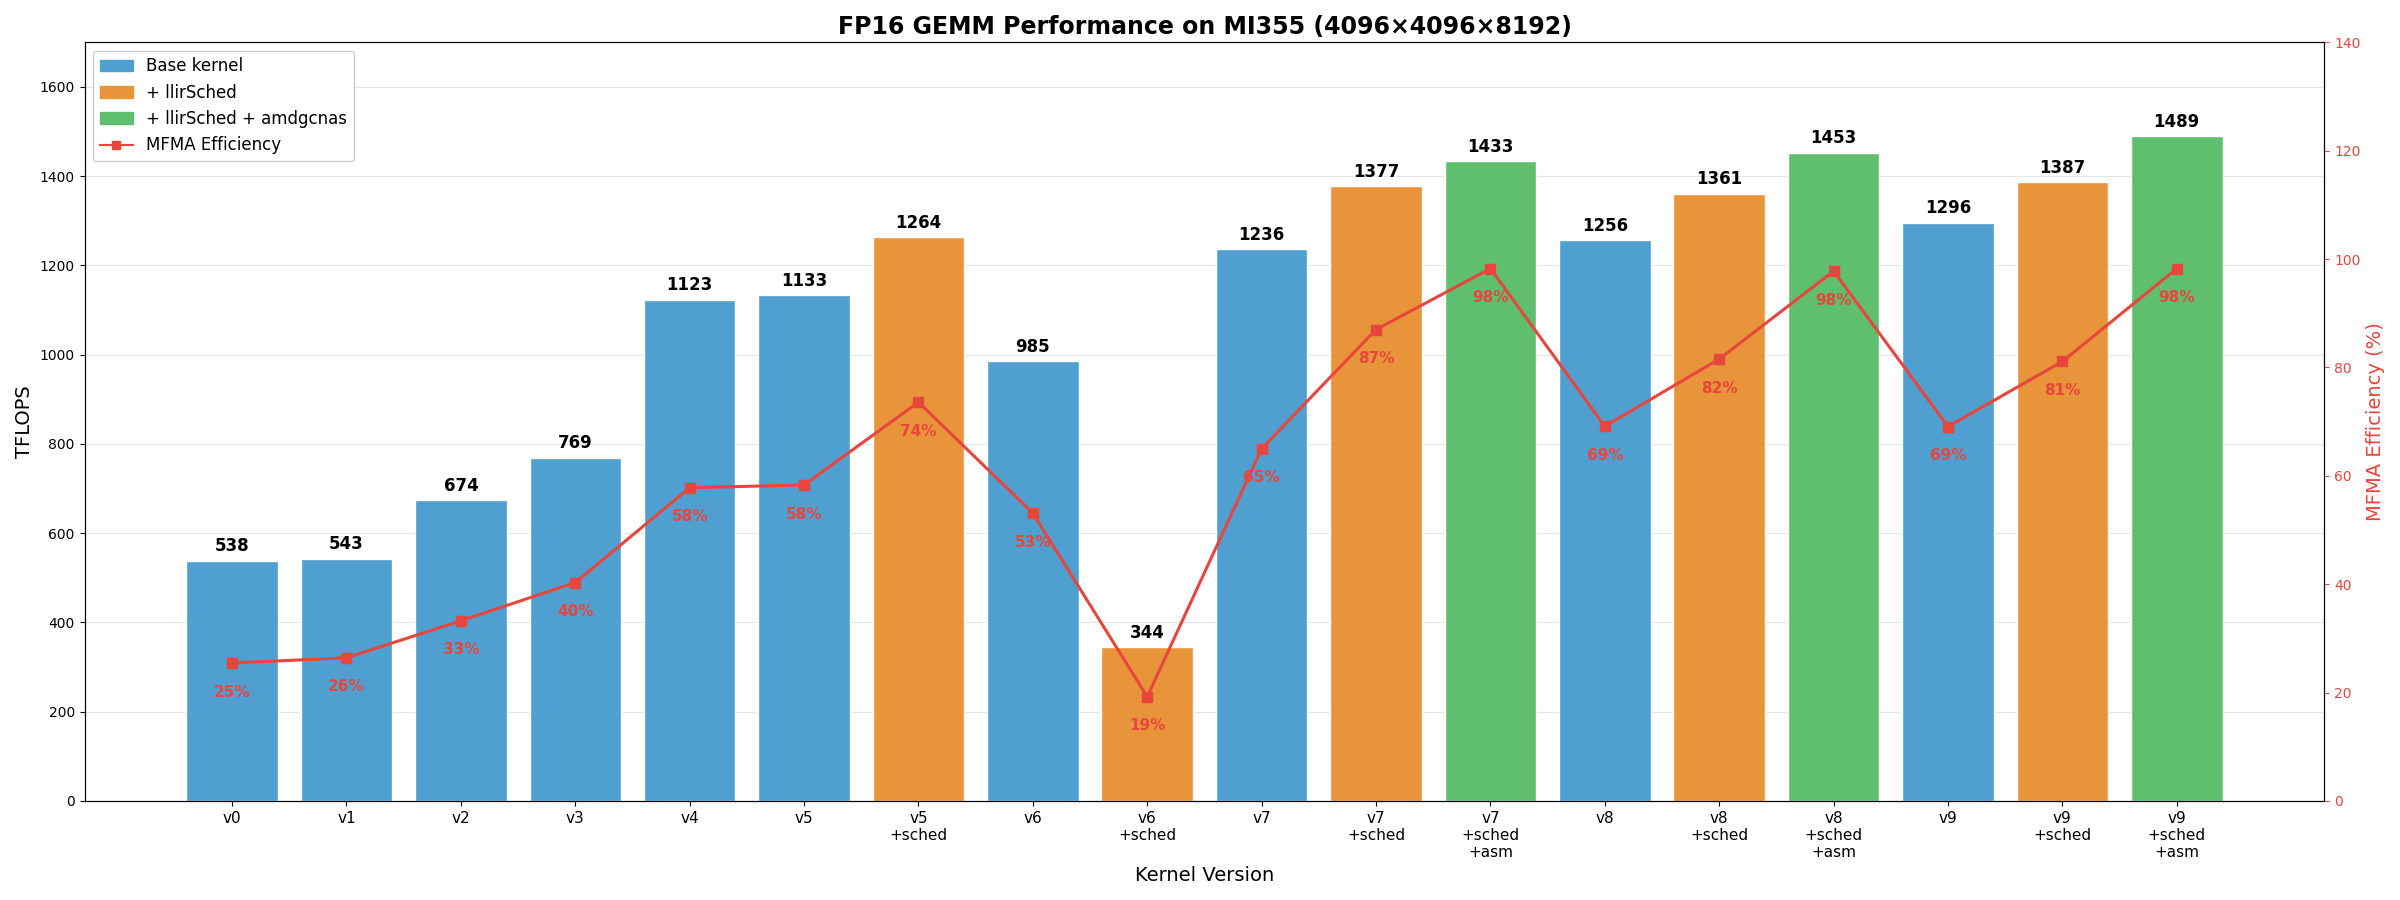
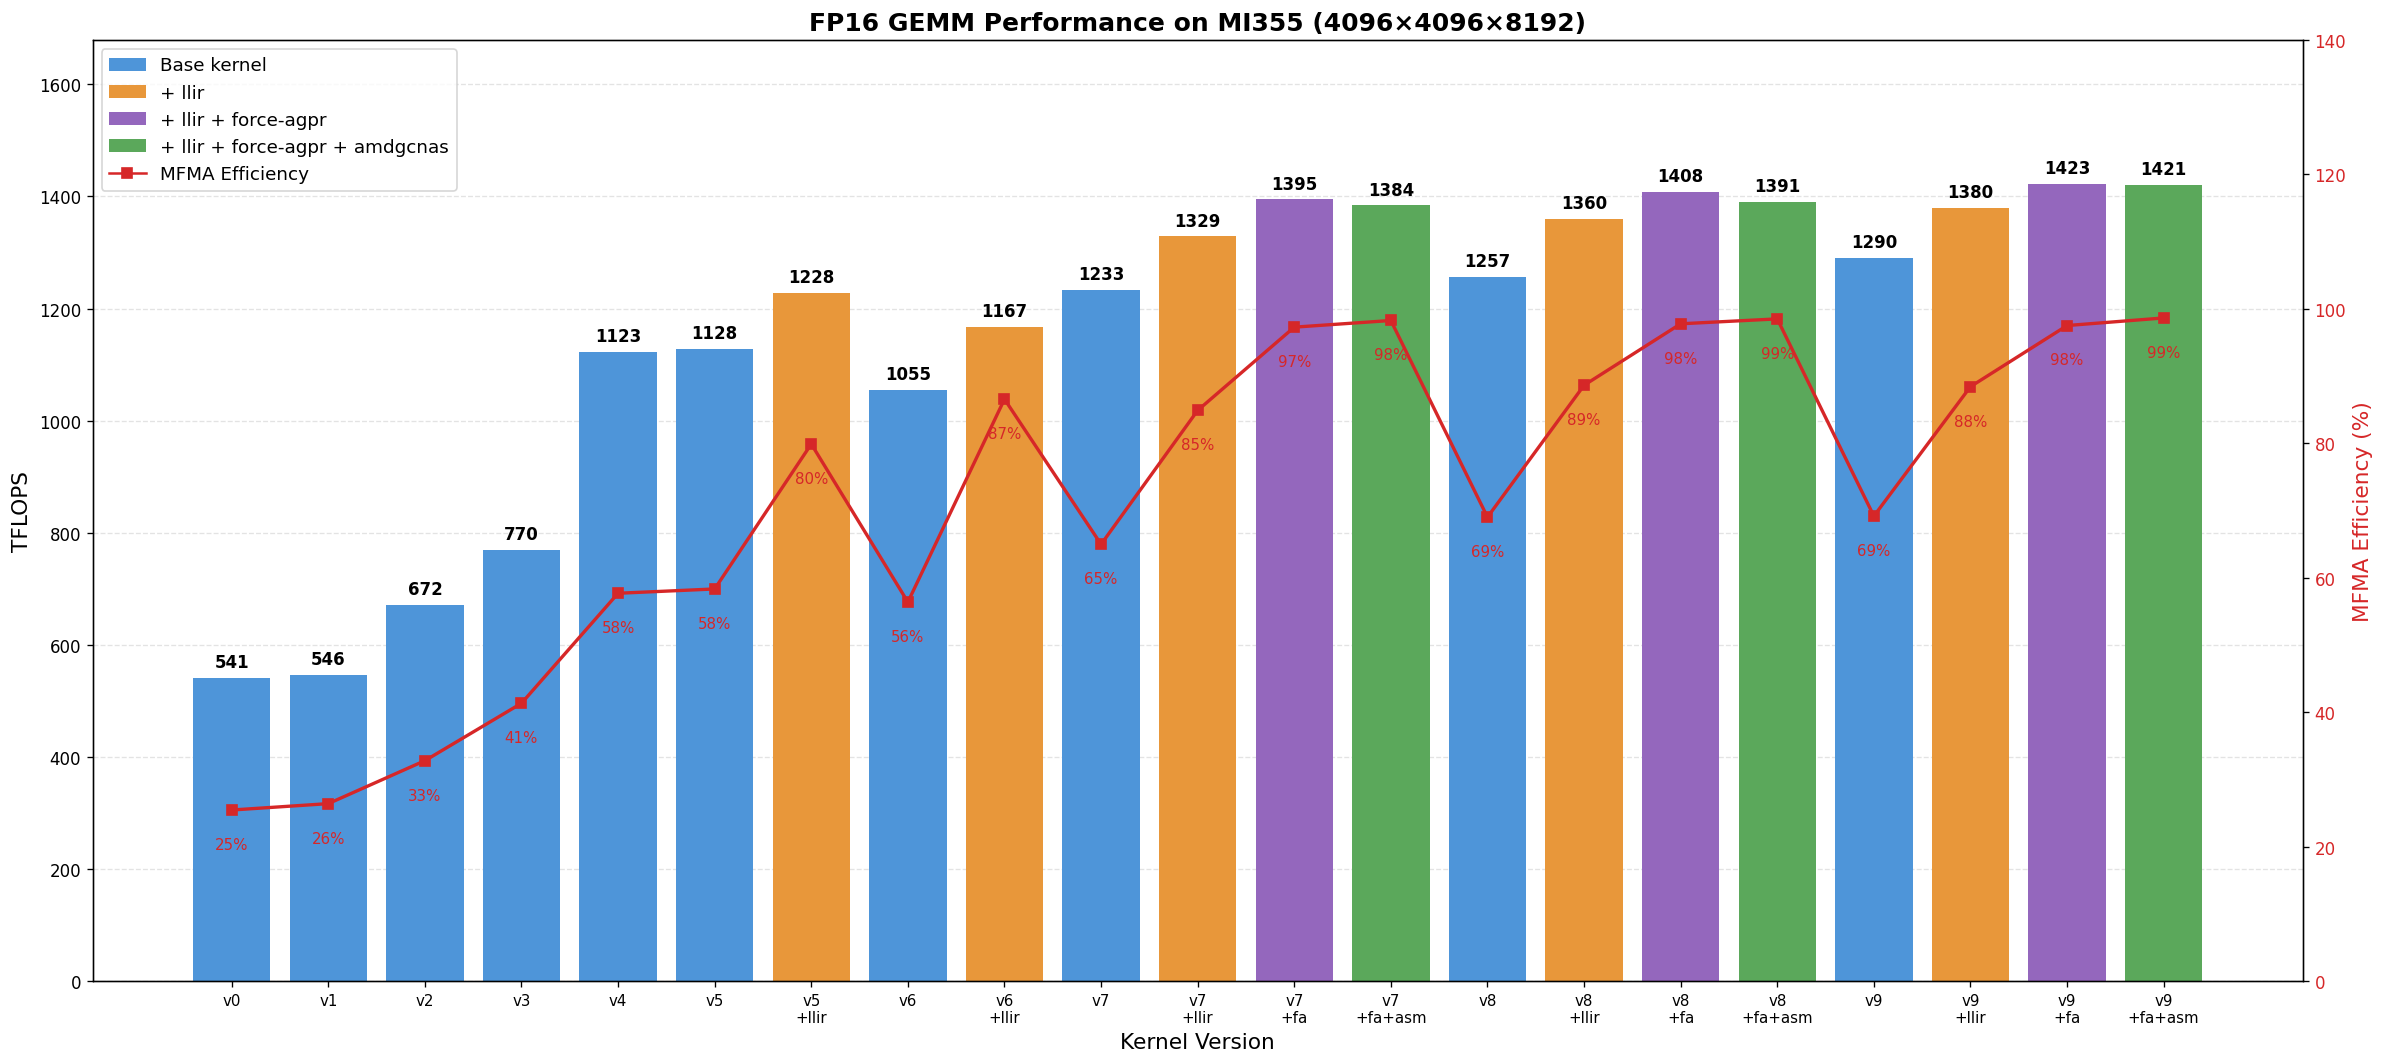
docs(a16w16 §3): refresh journey perf on v1.0 build; rewrite v6 story; regenerate bar chart
Update all §3 TFLOPS/MFMA numbers (541 naive -> 1421 near-optimal, ~2.6x). Rewrite
the v6 story: no spill cliff -- the unroll removes iteration-boundary copies and
reaches ~87% MFMA, sitting at the register ceiling; v7 slicing buys headroom for
force-agpr to remove the in-loop v_accvgpr copies (97%), amdgcnas -> 98%. Add
gen_performance_chart.py (the generating script was lost) and regenerate
performance_chart.png with configs base / llir / llir+force-agpr /
llir+force-agpr+amdgcnas.

diff --git a/kernels/gemm/a16w16/images/gen_performance_chart.py b/kernels/gemm/a16w16/images/gen_performance_chart.py
@@ -1,0 +1,114 @@
+##############################################################################
+# MIT License
+#
+# Copyright (c) 2026 Advanced Micro Devices, Inc. All Rights Reserved.
+#
+# Permission is hereby granted, free of charge, to any person obtaining a copy
+# of this software and associated documentation files (the "Software"), to deal
+# in the Software without restriction, including without limitation the rights
+# to use, copy, modify, merge, publish, distribute, sublicense, and/or sell
+# copies of the Software, and to permit persons to whom the Software is
+# furnished to do so, subject to the following conditions:
+#
+# The above copyright notice and this permission notice shall be included in
+# all copies or substantial portions of the Software.
+#
+# THE SOFTWARE IS PROVIDED "AS IS", WITHOUT WARRANTY OF ANY KIND, EXPRESS OR
+# IMPLIED, INCLUDING BUT NOT LIMITED TO THE WARRANTIES OF MERCHANTABILITY,
+# FITNESS FOR A PARTICULAR PURPOSE AND NONINFRINGEMENT.  IN NO EVENT SHALL THE
+# AUTHORS OR COPYRIGHT HOLDERS BE LIABLE FOR ANY CLAIM, DAMAGES OR OTHER
+# LIABILITY, WHETHER IN AN ACTION OF CONTRACT, TORT OR OTHERWISE, ARISING FROM,
+# OUT OF OR IN CONNECTION WITH THE SOFTWARE OR THE USE OR OTHER DEALINGS IN
+# THE SOFTWARE.
+##############################################################################
+
+"""Regenerate performance_chart.png for the a16w16 optimization journey.
+
+Bars = TFLOPS (left axis), red line = MFMA efficiency (right axis), one bar per
+(version, config).  Configs: base / llir / llir+force-agpr / llir+force-agpr+amdgcnas.
+
+Data: MI355, 4096x4096x8192, FP16, rocprofv3 (1000 dispatches, last-100 avg),
+collected with:
+    python scripts/run_perf_table.py --kernel a16w16 --versions <v> \
+        --configs base llir llir+force-agpr llir+force-agpr+amdgcnas \
+        --K 8192 --dtype fp16 --rocprof --allow-unreported
+
+Run:  python gen_performance_chart.py   (writes performance_chart.png next to it)
+"""
+import os
+import matplotlib
+matplotlib.use("Agg")
+import matplotlib.pyplot as plt
+from matplotlib.patches import Patch
+from matplotlib.lines import Line2D
+
+# Config styling, in cumulative order.
+CONFIGS = {
+    "base":                     dict(color="#4E95D9", label="Base kernel",                 tag=""),
+    "llir":                     dict(color="#E8973A", label="+ llir",                      tag="+llir"),
+    "llir+force-agpr":          dict(color="#9467BD", label="+ llir + force-agpr",         tag="+fa"),
+    "llir+force-agpr+amdgcnas": dict(color="#5BA85B", label="+ llir + force-agpr + amdgcnas", tag="+fa+asm"),
+}
+
+# (version, config, TFLOPS, MFMA%) in plotting order.
+DATA = [
+    (0, "base", 541, 25.47),
+    (1, "base", 546, 26.42),
+    (2, "base", 672, 32.81),
+    (3, "base", 770, 41.35),
+    (4, "base", 1123, 57.71),
+    (5, "base", 1128, 58.35),
+    (5, "llir", 1228, 79.91),
+    (6, "base", 1055, 56.40),
+    (6, "llir", 1167, 86.58),
+    (7, "base", 1233, 64.99),
+    (7, "llir", 1329, 84.91),
+    (7, "llir+force-agpr", 1395, 97.29),
+    (7, "llir+force-agpr+amdgcnas", 1384, 98.28),
+    (8, "base", 1257, 69.03),
+    (8, "llir", 1360, 88.65),
+    (8, "llir+force-agpr", 1408, 97.79),
+    (8, "llir+force-agpr+amdgcnas", 1391, 98.52),
+    (9, "base", 1290, 69.19),
+    (9, "llir", 1380, 88.44),
+    (9, "llir+force-agpr", 1423, 97.53),
+    (9, "llir+force-agpr+amdgcnas", 1421, 98.66),
+]
+
+x = list(range(len(DATA)))
+tflops = [d[2] for d in DATA]
+mfma = [d[3] for d in DATA]
+colors = [CONFIGS[d[1]]["color"] for d in DATA]
+labels = [f"v{d[0]}" + ("\n" + CONFIGS[d[1]]["tag"] if CONFIGS[d[1]]["tag"] else "") for d in DATA]
+
+fig, ax1 = plt.subplots(figsize=(20, 9))
+
+bars = ax1.bar(x, tflops, color=colors, width=0.8, zorder=2)
+for xi, tf in zip(x, tflops):
+    ax1.text(xi, tf + 12, f"{tf}", ha="center", va="bottom", fontsize=10, fontweight="bold")
+
+ax1.set_ylabel("TFLOPS", fontsize=13)
+ax1.set_xlabel("Kernel Version", fontsize=13)
+ax1.set_xticks(x)
+ax1.set_xticklabels(labels, fontsize=9)
+ax1.set_ylim(0, max(tflops) * 1.18)
+ax1.grid(axis="y", linestyle="--", alpha=0.35, zorder=0)
+
+ax2 = ax1.twinx()
+ax2.plot(x, mfma, color="#D62728", marker="s", markersize=6, linewidth=2, zorder=3)
+for xi, mf in zip(x, mfma):
+    ax2.text(xi, mf - 4, f"{mf:.0f}%", ha="center", va="top", color="#D62728", fontsize=9)
+ax2.set_ylabel("MFMA Efficiency (%)", color="#D62728", fontsize=13)
+ax2.tick_params(axis="y", labelcolor="#D62728")
+ax2.set_ylim(0, 140)
+
+legend_handles = [Patch(facecolor=c["color"], label=c["label"]) for c in CONFIGS.values()]
+legend_handles.append(Line2D([0], [0], color="#D62728", marker="s", label="MFMA Efficiency"))
+ax1.legend(handles=legend_handles, loc="upper left", fontsize=11)
+
+ax1.set_title("FP16 GEMM Performance on MI355 (4096×4096×8192)", fontsize=15, fontweight="bold")
+fig.tight_layout()
+
+out = os.path.join(os.path.dirname(os.path.abspath(__file__)), "performance_chart.png")
+fig.savefig(out, dpi=120, bbox_inches="tight")
+print(f"wrote {out}")

diff --git a/kernels/gemm/a16w16/README.md b/kernels/gemm/a16w16/README.md
@@ -39,7 +39,7 @@ This runs correctness checks against `torch.matmul` and reports TFLOPS. Use `--v
 
 ## 3. The Optimization Journey
 
-This section tells the story of how we transformed a 520 TFLOPS naive kernel into a 1489 TFLOPS near-optimal implementation—a **~3× improvement** through systematic optimization.
+This section tells the story of how we transformed a 541 TFLOPS naive kernel into a 1421 TFLOPS near-optimal implementation—a **~2.6× improvement** through systematic optimization.
 
 | Version | Name | Focus | Key Concept |
 |---------|------|-------|-------------|
@@ -56,11 +56,11 @@ This section tells the story of how we transformed a 520 TFLOPS naive kernel int
 
 ### Act I: Getting the Basics Right (v0–v3)
 
-**v0 — The Starting Point.** We begin with a kernel that does exactly one thing well: produce correct results. Every layout is explicit, every data movement visible, nothing hidden. Performance? A modest 520 TFLOPS at 25% MFMA efficiency. But correctness comes first—this is our foundation.
+**v0 — The Starting Point.** We begin with a kernel that does exactly one thing well: produce correct results. Every layout is explicit, every data movement visible, nothing hidden. Performance? A modest 541 TFLOPS at 25% MFMA efficiency. But correctness comes first—this is our foundation.
 
 **v1 — The Branch Problem.** Examining the generated assembly, we find 140 branch instructions. Why? Masked loads generate branches for out-of-bounds checking. The fix is elegant: `buffer_load` handles OOB in hardware. Branches drop from 140 to 4. The lesson: *sometimes the best optimization is choosing the right instruction.*
 
-**v2 — Eliminating the Middleman.** Data flows from HBM → registers → LDS → registers → MFMA. But why stage in registers? With `buffer_load ... lds`, data goes directly from HBM to LDS. We save 100+ VGPRs and eliminate all `ds_write` instructions. Performance jumps to 674 TFLOPS.
+**v2 — Eliminating the Middleman.** Data flows from HBM → registers → LDS → registers → MFMA. But why stage in registers? With `buffer_load ... lds`, data goes directly from HBM to LDS. We save 100+ VGPRs and eliminate all `ds_write` instructions. Performance jumps to 672 TFLOPS.
 
 **v3 — The Bank Conflict Detective.** LDS has 64 banks. When threads collide on the same bank, throughput drops. We design three layouts—raw, swizzled, and padded—and measure steady-state `ds_read` throughput. Raw layout: 4-way conflicts, 64-cycle issue latency. Padded layout: conflict-free, 16-cycle issue latency. The winner is clear, and we have a methodology for future designs.
 
@@ -70,15 +70,15 @@ This section tells the story of how we transformed a 520 TFLOPS naive kernel int
 
 **v5 — One More Stage.** MFMA still waits for `ds_read`. We add a third pipeline stage: while MFMA computes iteration k, `ds_read` loads iteration k+1, and `buffer_load` prefetches iteration k+2. Now MFMA, `ds_read`, and `buffer_load` can all run concurrently—if only the compiler would schedule them that way.
 
-Enter the **LLIR Scheduler**. The backend wasn't interleaving instructions as we hoped, so we built a custom scheduler operating at LLVM IR level. It interleaves MFMA with memory operations based on hardware throughput models. With LLIR scheduling, MFMA efficiency jumps from 58% to 76%.
+Enter the **LLIR Scheduler**. The backend wasn't interleaving instructions as we hoped, so we built a custom scheduler operating at LLVM IR level. It interleaves MFMA with memory operations based on hardware throughput models. With LLIR scheduling, MFMA efficiency jumps from 58% to 80%.
 
 ### Act III: Taming the Hardware (v6–v8)
 
-**v6 — Loop Unrolling and a Hidden Cost.** The trace reveals copy instructions at iteration boundaries—moving data between register sets for prefetch. The fix: unroll by 2, alternating register sets naturally. The copies do disappear from the assembly, but performance collapses to 19% MFMA efficiency. The unroll forces both register sets to live concurrently, blowing past the 512-VGPR budget and spilling 104 VGPRs to scratch memory; each spill round-trip stalls the MFMA critical path. The lesson: the per-iteration copy v5 was paying was also helping the register allocator find reuse across iterations. Removing it isn't free.
+**v6 — Loop Unrolling.** The v5 trace reveals copy instructions at iteration boundaries—data moved between register sets for the prefetch. The fix: unroll by 2, alternating register sets naturally. The copies disappear from the assembly and MFMA efficiency climbs to **87%**. But the kernel now presses against the 512-register ceiling: the two register sets are live at once, leaving no headroom. The remaining inefficiency lives inside the loop—the register allocator shuffles MFMA accumulators between AGPRs and VGPRs with `v_accvgpr_*` copies—and with the register file full, there is no room to fix it in place.
 
-**v7 — Fixing the Register Budget by Design.** With 256×256 tiles and prefetching, we need ~512 registers—exactly what gfx950 provides. No headroom. v7 slices along N: instead of loading a full 256-wide B tile, we load two 128-wide halves in sequence. Register pressure drops to 448 by construction, dissolving the live-range overlap that forced v6 to spill. v7 + LLIR scheduler runs at 494 VGPRs, **zero spills, 87.00% MFMA efficiency** — back on track.
+**v7 — Fixing the Register Budget by Design.** With 256×256 tiles and prefetching, we need ~512 registers—exactly what gfx950 provides. No headroom. v7 slices along N: instead of loading a full 256-wide B tile, we load two 128-wide halves in sequence. Register pressure drops to 448 by construction. That headroom is the enabler for the real fix. **force-agpr** (`TRITON_FORCE_MFMA_AGPR=1`) pins every MFMA accumulator into an AGPR, so the allocator no longer shuffles accumulators between register files inside the loop—the `v_accvgpr_*` copies vanish and MFMA efficiency reaches **97%**.
 
-The remaining gap (87.00% → 98%) comes from a separate problem now that the spills are gone: the allocator schedules many AGPR↔VGPR copies inside the loop. We add RA flags and **amdgcnas**—an assembly post-processor that applies peephole optimizations. The result: **98% MFMA efficiency**. The hot loop is essentially perfect.
+The last gap (97% → 98%) is scattered SALU instructions at iteration boundaries. **amdgcnas**—an out-of-tree assembly post-processor—packs them with peephole optimizations. The result: **98% MFMA efficiency**. The hot loop is essentially perfect.
 
 **v8 — Slicing Both Dimensions.** v7 sliced only N. v8 also slices M, splitting A into two 128-row halves. Register pressure drops further to 384, and each K-step now has four regions instead of two. This restructuring has two benefits: the **copy problem from v5 disappears** naturally (the four-region load order eliminates overlapping live ranges without unrolling), and a **buffer load stall at large K is resolved** (v7 clustered 16 buffer loads in ~1000 cycles; v8 distributes them across ~1500 cycles of MFMA, giving HBM enough time to respond even under high contention).
 
@@ -95,7 +95,7 @@ Measured on MI355 with shape 4096×4096×8192, FP16:
 ![Performance Chart](images/performance_chart.png)
 
 > [!IMPORTANT]
-> **The Moral:** Each optimization seemed small in isolation: choose the right instruction, add a pipeline stage, unroll a loop. But together, they compound into a ~3× speedup. More importantly, each step taught us something about the hardware—and that knowledge transfers to future kernels.
+> **The Moral:** Each optimization seemed small in isolation: choose the right instruction, add a pipeline stage, unroll a loop. But together, they compound into a ~2.6× speedup. More importantly, each step taught us something about the hardware—and that knowledge transfers to future kernels.
 
 ## 4. Beyond FP16
 
